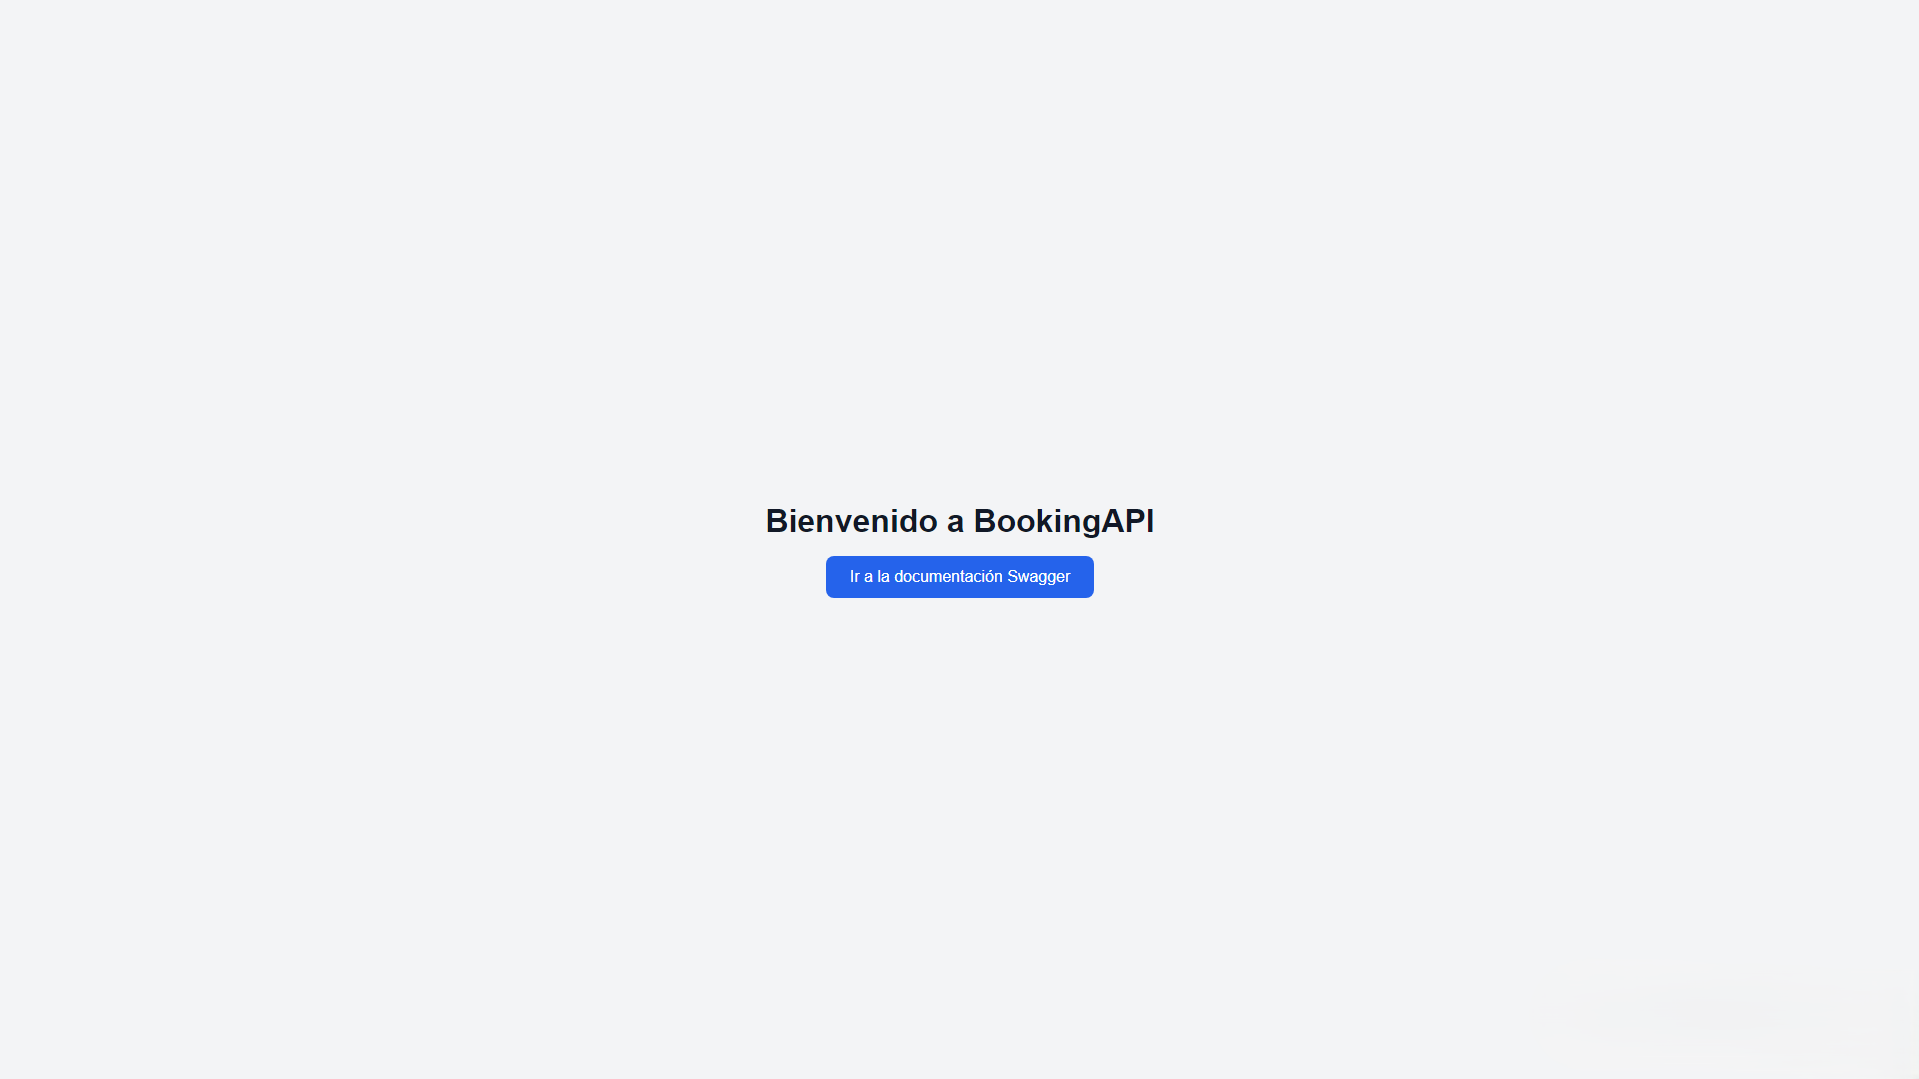
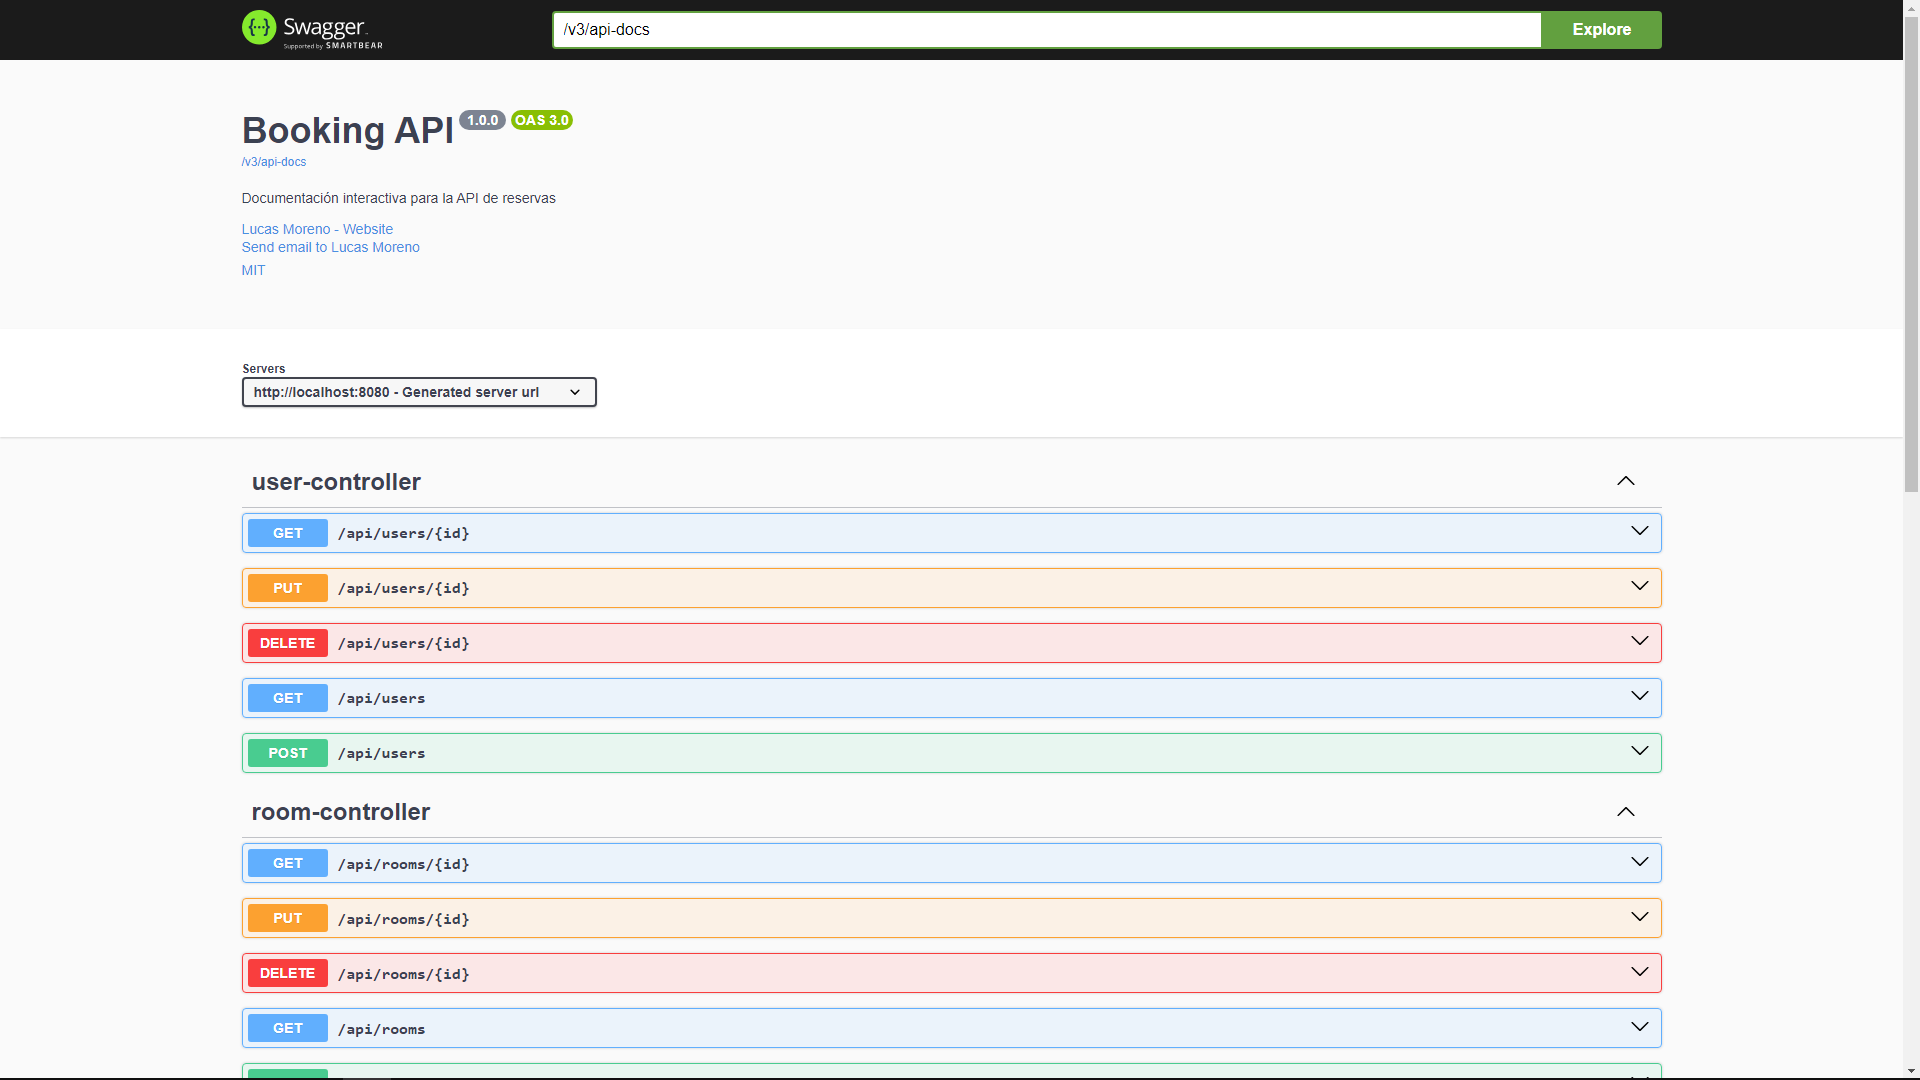
Update project data and assets
- Removed Prettier from package-lock.json.
- Added new logo assets for multiple projects in the public directory.
- Expanded project data in projects.ts with detailed descriptions and objectives for new projects: DevOps Template, UTSCH, and Cuboc.

diff --git a/src/data/projects.ts b/src/data/projects.ts
@@ -1,4 +1,11 @@
 // src/data/projects.ts
+const devOpsTemplateMediaFolder = "/DevOpsTemplate";
+const utschMediaFolder = "/Utsch";
+const cubocMediaFolder = "/Cuboc";
+const indekMediaFolder = "/IndeK";
+const tourismWithStyleMediaFolder = "/TourismWithStyle";
+const russellsMediaFolder = "/Russells";
+const iceEditorialMediaFolder = "/ICEditorial";
 const bafreMediaFolder = "/BafreMedia";
 const la11milMediaFolder = "/la11mil";
 const rotaPlaceMediaFolder = "/RotaPlace";
@@ -35,6 +42,325 @@ export interface Project {
 
 
 export const projects: Project[] = [
+  {
+    title: "DevOps Template GCP",
+    titleJob: "Template empresarial de DevOps e Infrastructure as Code en GCP",
+    briefDescription: "Diseño y desarrollo de un <strong>template empresarial reutilizable de DevOps</strong> con <strong>Terraform</strong> y <strong>Google Cloud Platform</strong>, que automatiza despliegues <strong>fullstack</strong> multi-ambiente (Preview, Staging, Production) con <strong>CI/CD</strong>, <strong>Cloud Run</strong> y <strong>Cloudflare</strong>.",
+    description: `Durante mi etapa en <strong>Databay Solutions</strong>, diseñé y desarrollé la piedra angular de la infraestructura cloud de la empresa: un <strong>template DevOps reutilizable</strong> basado en <strong>Infrastructure as Code (Terraform)</strong> para desplegar aplicaciones fullstack en <strong>GCP</strong> de forma automatizada, segura y escalable.
+
+<strong>Arquitectura principal:</strong>
+      <ul>
+      <li><strong>Terraform modular:</strong> Módulos para Artifact Registry, Cloud Run, GCS (frontend estático), Cloudflare DNS/Workers e IAM con principio de mínimo privilegio.</li>
+      <li><strong>Frontend trimodal:</strong> Hosting estático en GCS, SSR en Cloud Run o arquitectura híbrida con routing inteligente.</li>
+      <li><strong>Backend y microservicios:</strong> Cloud Run con auto-scaling, health checks y aislamiento de fallos.</li>
+      <li><strong>Cloudflare:</strong> Workers para routing, DNS dinámico, SSL/TLS y CDN global.</li>
+      <li><strong>CI/CD:</strong> GitHub Actions (build, deploy, detect-changes, validación Terraform, rollout gradual 10% → 50% → 100%).</li>
+      </ul>
+
+<strong>Impacto:</strong> Reducción del ~90% en tiempo de despliegue, zero-downtime deployments, infraestructura versionada y documentación técnica para adopción en todos los proyectos cliente.
+
+_Repositorio interno de Databay Solutions — no disponible públicamente por ser código propietario._`,
+    objective: "Crear una base de infraestructura <strong>reutilizable, automatizada y segura</strong> que estandarice los despliegues en GCP para todos los proyectos de la empresa, reduciendo errores manuales y el time-to-market de nuevos clientes.",
+    startDate: "Ago 2025",
+    endDate: "May 2026",
+    tags: [
+      "Terraform",
+      "GCP",
+      "Cloud Run",
+      "Docker",
+      "GitHub Actions",
+      "CI/CD",
+      "Cloudflare",
+      "Infrastructure as Code",
+      "Artifact Registry",
+      "Cloud Storage",
+      "DevOps"
+    ],
+    logo: `${devOpsTemplateMediaFolder}/logo.png`,
+    company: "Databay Solutions"
+  },
+  {
+    title: "UTSCH",
+    titleJob: "Plataforma digital de matrículas personalizadas",
+    briefDescription: "Desarrollo <strong>fullstack</strong> y despliegue en producción de la plataforma de <strong>UTSCH España</strong> para gestión y venta de matrículas, con integración <strong>DGT</strong>, antifraude <strong>Kount</strong> e infraestructura <strong>GCP</strong> automatizada.",
+    description: `Desarrollo y despliegue completo de la plataforma digital de <strong>UTSCH España</strong> para la gestión y venta de matrículas personalizadas, utilizando el template DevOps interno (<strong>Terraform + GCP</strong>).
+
+<strong>Responsabilidades principales:</strong>
+      <ul>
+      <li><strong>DevOps:</strong> Ambientes Preview, Staging y Production; CI/CD con GitHub Actions; Cloud Run y Cloud Storage; DNS y routing con Cloudflare Workers.</li>
+      <li><strong>Frontend:</strong> React y Vue.js.</li>
+      <li><strong>Backend:</strong> Prisma ORM con PostgreSQL; API REST; panel de administración.</li>
+      <li><strong>Integraciones críticas:</strong> API oficial de la <strong>DGT</strong> (validaciones en tiempo real), <strong>Kount</strong> (antifraude y scoring), APIs de terceros y sistema de pagos seguros.</li>
+      </ul>
+
+_Plataforma en producción estable con escalabilidad automática y despliegues sin downtime._`,
+    objective: "Entregar una plataforma <strong>escalable, segura y en producción</strong> para la venta de matrículas digitales, con integraciones oficiales (DGT) y controles antifraude robustos.",
+    startDate: "Ago 2025",
+    endDate: "May 2026",
+    tags: [
+      "React",
+      "Vue.js",
+      "Prisma",
+      "PostgreSQL",
+      "Terraform",
+      "GCP",
+      "Cloud Run",
+      "GitHub Actions",
+      "Cloudflare",
+      "Kount",
+      "API REST",
+      "DGT API"
+    ],
+    logo: `${utschMediaFolder}/logo.png`,
+    links: {
+      website: "https://utsch.es/"
+    },
+    team: {
+      contributors: [
+        { name: "Lucas Moreno", role: "Desarrollador Fullstack & DevOps" }
+      ]
+    },
+    developmentProcess: {
+      methodology: "Agile",
+      timeline: "Ago 2025 - May 2026"
+    },
+    company: "Databay Solutions"
+  },
+  {
+    title: "Cuboc",
+    titleJob: "Plataforma de gestión empresarial con arquitectura híbrida",
+    briefDescription: "Desarrollo <strong>fullstack</strong> de plataforma empresarial con <strong>Next.js</strong>, <strong>React</strong> y <strong>Prisma</strong>, usando infraestructura <strong>GCP</strong> en dev/staging y despliegue optimizado en <strong>Vercel</strong> para producción.",
+    description: `Desarrollo fullstack de la plataforma empresarial <strong>Cuboc</strong> con arquitectura híbrida: infraestructura DevOps propia en desarrollo y staging, y deployment final en <strong>Vercel</strong> para producción.
+
+<strong>Arquitectura y desarrollo:</strong>
+      <ul>
+      <li><strong>Dev/Staging:</strong> Terraform, GCP Cloud Run, preview environments por PR, CI/CD con GitHub Actions.</li>
+      <li><strong>Producción:</strong> Vercel con Edge Functions, SSR/SSG optimizado y CDN global.</li>
+      <li><strong>Stack:</strong> React, Next.js, Vue.js (componentes específicos), Prisma, PostgreSQL.</li>
+      <li><strong>Seguridad y SEO:</strong> Integración <strong>Kount</strong>, Open Graph, autenticación/autorización y panel administrativo.</li>
+      </ul>`,
+    objective: "Construir una plataforma empresarial <strong>moderna y performante</strong>, con flujos de despliegue automatizados en múltiples entornos y optimización de producción en Vercel.",
+    startDate: "Ago 2025",
+    endDate: "May 2026",
+    tags: [
+      "React",
+      "Next.js",
+      "Vue.js",
+      "Prisma",
+      "PostgreSQL",
+      "Vercel",
+      "Terraform",
+      "GCP",
+      "GitHub Actions",
+      "Kount",
+      "Open Graph",
+      "SSR"
+    ],
+    logo: `${cubocMediaFolder}/logo.png`,
+    links: {
+      website: "https://cuboc-app.vercel.app/es/"
+    },
+    team: {
+      contributors: [
+        { name: "Lucas Moreno", role: "Desarrollador Fullstack & DevOps" }
+      ]
+    },
+    developmentProcess: {
+      methodology: "Agile",
+      timeline: "Ago 2025 - May 2026"
+    },
+    company: "Databay Solutions"
+  },
+  {
+    title: "INDEK API",
+    titleJob: "API interna de gestión empresarial y procesamiento de datos",
+    briefDescription: "API <strong>REST</strong> interna para <strong>INDE-K</strong> con procesamiento avanzado de <strong>Excel</strong>, análisis con <strong>Pandas</strong>, caché <strong>Redis</strong> y despliegue en <strong>Cloud Run</strong> sobre <strong>GCP</strong>.",
+    description: `Desarrollo de API REST interna para <strong>INDE-K</strong> orientada al procesamiento de hojas de cálculo y automatización de procesos de control interno, reportes y datos complejos.
+
+<strong>Funcionalidades clave:</strong>
+      <ul>
+      <li><strong>Procesamiento Excel:</strong> Import/export, validación, transformaciones y generación de reportes automatizados.</li>
+      <li><strong>Backend:</strong> Node.js/Express y Python/FastAPI; colas asíncronas para archivos grandes.</li>
+      <li><strong>Infraestructura:</strong> Terraform, Cloud Run, Cloud Storage, Redis, Secrets Manager y Cloud Monitoring.</li>
+      <li><strong>Seguridad:</strong> Autenticación JWT, control de acceso por roles y auditoría completa de operaciones.</li>
+      </ul>
+
+_Sistema interno privado — no se puede mostrar código ni enlaces por protección de datos._`,
+    objective: "Automatizar procesos manuales empresariales mediante una API <strong>robusta, escalable y auditable</strong> para el procesamiento eficiente de datos en Excel.",
+    startDate: "Ago 2025",
+    endDate: "May 2026",
+    tags: [
+      "Node.js",
+      "Express",
+      "Python",
+      "FastAPI",
+      "PostgreSQL",
+      "Redis",
+      "Pandas",
+      "Terraform",
+      "GCP",
+      "Cloud Run",
+      "GitHub Actions",
+      "JWT"
+    ],
+    logo: `${indekMediaFolder}/logo.png`,
+    links: {
+      website: "https://inde-k.com/"
+    },
+    team: {
+      contributors: [
+        { name: "Lucas Moreno", role: "Desarrollador Backend & DevOps" }
+      ]
+    },
+    developmentProcess: {
+      methodology: "Agile",
+      timeline: "Ago 2025 - May 2026"
+    },
+    company: "Databay Solutions"
+  },
+  {
+    title: "Tourism With Style",
+    titleJob: "Implementación ERP Odoo 19 para agencia de turismo de lujo",
+    briefDescription: "Implementación completa de <strong>Odoo 19</strong> para agencia turística: consultoría, <strong>módulos personalizados</strong>, contabilidad con <strong>Verifactu (AEAT)</strong>, migración de datos y formación al cliente.",
+    description: `Proyecto end-to-end de implementación de <strong>ERP Odoo 19</strong> para <strong>Tourism With Style</strong>, agencia de turismo de lujo, desde análisis de requisitos hasta puesta en producción.
+
+<strong>Módulos implementados y personalizados:</strong>
+      <ul>
+      <li><strong>Ventas y Compras:</strong> Paquetes turísticos, cotizaciones, proveedores hoteleros y control de márgenes.</li>
+      <li><strong>CRM y Contactos:</strong> Segmentación B2B/B2C, leads, historial de viajes y fidelización.</li>
+      <li><strong>Inventario:</strong> Disponibilidad de servicios, cupos y reservas temporales.</li>
+      <li><strong>Contabilidad:</strong> Plan contable español, facturación automatizada e integración <strong>Verifactu (AEAT)</strong> con envío automático y trazabilidad.</li>
+      </ul>
+
+<strong>Desarrollo técnico:</strong> 6+ módulos custom en Python, vistas XML/QWeb, API cliente AEAT, automatizaciones, reports y migración desde sistema legacy.
+
+_Reducción estimada del 80% en tiempo de procesos manuales._`,
+    objective: "Digitalizar y automatizar la operativa de la agencia con un ERP <strong>adaptado al negocio turístico</strong>, cumpliendo normativa fiscal española (Verifactu) y formando al equipo del cliente.",
+    startDate: "Ago 2025",
+    endDate: "May 2026",
+    tags: [
+      "Odoo 19",
+      "Python",
+      "PostgreSQL",
+      "XML",
+      "QWeb",
+      "Verifactu",
+      "Docker",
+      "Nginx",
+      "ERP",
+      "Consultoría"
+    ],
+    logo: `${tourismWithStyleMediaFolder}/logo.png`,
+    links: {
+      website: "https://www.tourismwithstyle.com/"
+    },
+    team: {
+      contributors: [
+        { name: "Lucas Moreno", role: "Consultor Odoo & Desarrollador de Módulos" }
+      ]
+    },
+    developmentProcess: {
+      methodology: "Agile",
+      timeline: "Ago 2025 - May 2026"
+    },
+    company: "Databay Solutions"
+  },
+  {
+    title: "Russells",
+    titleJob: "ERP Odoo 19 para marketplace gourmet multi-vendedor",
+    briefDescription: "Implementación de <strong>Odoo 19</strong> como ERP de <strong>marketplace</strong> gourmet: módulo custom de vendedores, <strong>comisiones automatizadas</strong>, pedidos multi-vendedor y contabilidad adaptada al modelo marketplace.",
+    description: `Implementación completa de <strong>Odoo 19</strong> para <strong>Russells</strong>, marketplace de comidas y aperitivos gourmet, con lógica específica multi-vendedor.
+
+<strong>Módulo personalizado — Gestión de Marketplace:</strong>
+      <ul>
+      <li><strong>Dashboard de vendedores:</strong> Panel autónomo de productos, ventas y comisiones.</li>
+      <li><strong>Comisiones automatizadas:</strong> Motor configurable por categoría, volumen y liquidaciones.</li>
+      <li><strong>Pedidos multi-vendedor:</strong> División automática, notificaciones y tracking por sub-pedido.</li>
+      <li><strong>Contabilidad:</strong> Facturación de comisiones, pagos a vendedores y reports por vendedor.</li>
+      </ul>
+
+<strong>Consultoría:</strong> Análisis del modelo marketplace, formación al equipo y parametrización fiscal de productos alimentarios.
+
+_Reducción del ~70% en tiempo de gestión administrativa._`,
+    objective: "Operar un marketplace gourmet con <strong>transparencia en comisiones</strong>, autonomía de vendedores y escalabilidad para incorporar nuevos partners sin fricción operativa.",
+    startDate: "Ago 2025",
+    endDate: "May 2026",
+    tags: [
+      "Odoo 19",
+      "Python",
+      "PostgreSQL",
+      "XML",
+      "QWeb",
+      "Marketplace",
+      "ERP",
+      "Docker",
+      "Nginx",
+      "Consultoría"
+    ],
+    logo: `${russellsMediaFolder}/logo.png`,
+    links: {
+      website: "https://www.russells.es/"
+    },
+    team: {
+      contributors: [
+        { name: "Lucas Moreno", role: "Consultor Odoo & Desarrollador de Módulos" }
+      ]
+    },
+    developmentProcess: {
+      methodology: "Agile",
+      timeline: "Ago 2025 - May 2026"
+    },
+    company: "Databay Solutions"
+  },
+  {
+    title: "ICEditorial",
+    titleJob: "Migración PrestaShop 9 y módulos de sincronización",
+    briefDescription: "Migración de tienda editorial a <strong>PrestaShop 9</strong> y desarrollo de dos módulos custom: sincronización de <strong>pedidos vía API</strong> y sincronización de <strong>catálogo por cron optimizado</strong> (batch processing).",
+    description: `Migración completa de la tienda online de <strong>ICEditorial</strong> desde versión legacy a <strong>PrestaShop 9</strong>, incluyendo base de datos, tema, pagos, envíos y SEO (redirecciones 301).
+
+<strong>Módulo 1 — Sincronización de pedidos:</strong>
+      <ul>
+      <li>Hook de captura de pedidos y envío en tiempo real vía API REST a sistema externo.</li>
+      <li>Retry automático, logs de auditoría y panel de monitoreo en backoffice.</li>
+      </ul>
+
+<strong>Módulo 2 — Sincronización de productos (cron optimizado):</strong>
+      <ul>
+      <li>Procesamiento por lotes (batch) y sincronización incremental para catálogos grandes.</li>
+      <li>Resolución de timeouts y límites de memoria de cronjobs nativos de PrestaShop (~10x más rápido).</li>
+      </ul>
+
+<strong>Infraestructura:</strong> Linux, Nginx, SSL/TLS, MySQL optimizado para e-commerce, backups automáticos y caché.`,
+    objective: "Completar la migración sin pérdida de datos y eliminar errores manuales en inventario y pedidos mediante <strong>sincronización fiable y monitorizable</strong> con sistemas externos.",
+    startDate: "Ago 2025",
+    endDate: "May 2026",
+    tags: [
+      "PrestaShop 9",
+      "PHP",
+      "MySQL",
+      "JavaScript",
+      "API REST",
+      "Cron Jobs",
+      "Docker",
+      "Nginx",
+      "SSL/TLS",
+      "E-commerce"
+    ],
+    logo: `${iceEditorialMediaFolder}/logo.png`,
+    links: {
+      website: "https://nuevo.iceditorial.com/"
+    },
+    team: {
+      contributors: [
+        { name: "Lucas Moreno", role: "Desarrollador Backend & Especialista PrestaShop" }
+      ]
+    },
+    developmentProcess: {
+      methodology: "Agile",
+      timeline: "Ago 2025 - May 2026"
+    },
+    company: "Databay Solutions"
+  },
   {
     title: "BookingApi",
     titleJob: "API RESTful para gestión de reservas",
